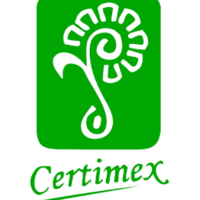
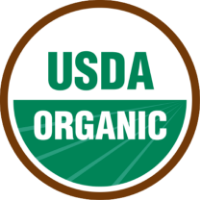
width en certificados

diff --git a/index.html b/index.html
@@ -179,7 +179,7 @@
         <h2 class="h2-small">Certificados</h2>
         <div class="gridthree2">
             <article>
-                <figure><img alt="Certificado orgánico certimex" src="images/certificates/certificado_certimex.png">
+                <figure><img alt="Certificado orgánico certimex" src="images/certificates/certificado_certimex.svg">
                 </figure>
             </article>
             <article>

diff --git a/style.css b/style.css
@@ -348,8 +348,8 @@ header a {
 
 /* —————— certificados —————— */
 .certificate article figure {
-    width: 100%;
-    margin: 0;
+    width: 75%;
+    margin: auto;
 }
 
 .certificate article img {
